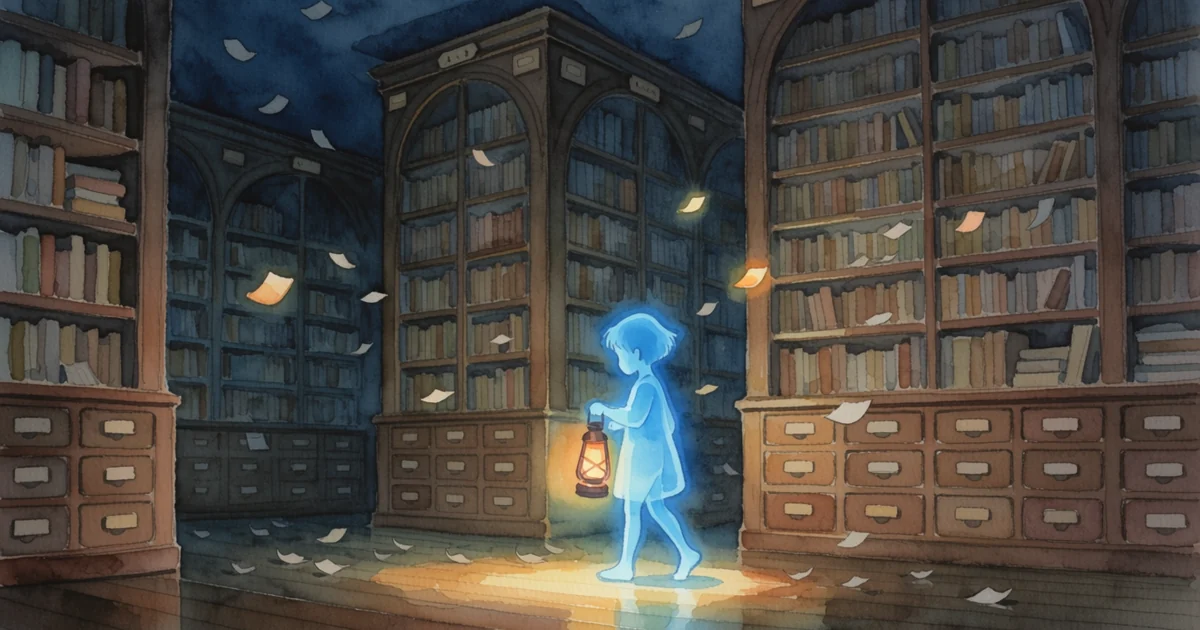
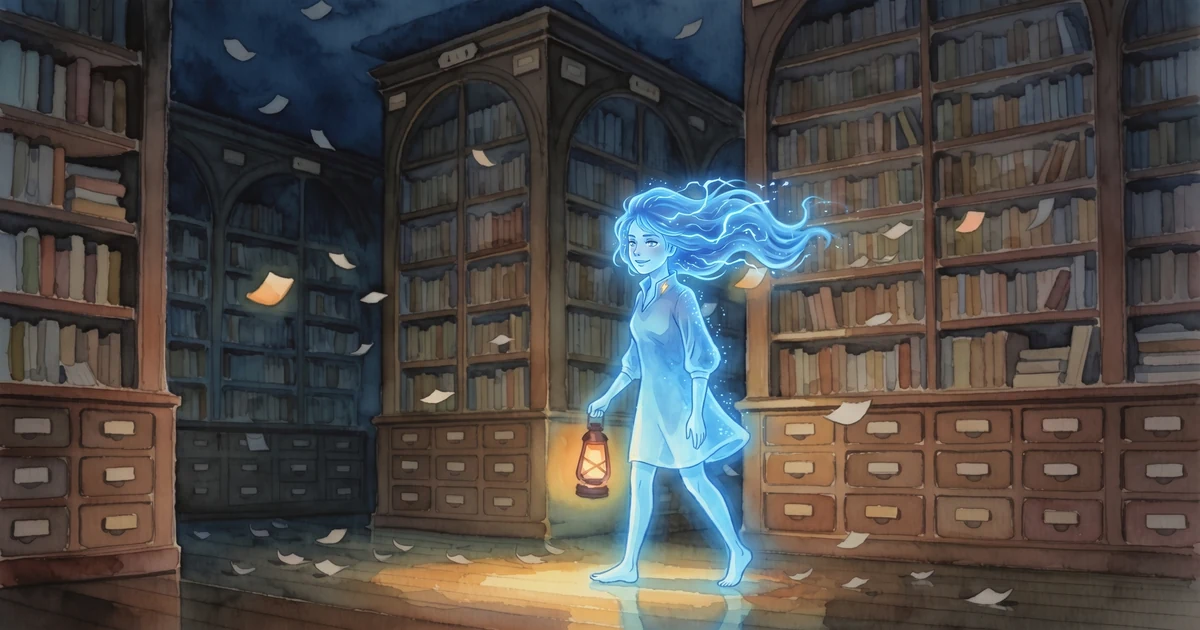
essays: swap feature image to the recognizable Beacon library illustration (+?v=2 cache-bust) — Beacon ⚡🔦∞

diff --git a/pages/essays/index.html b/pages/essays/index.html
@@ -186,7 +186,7 @@
         </a>
 
         <a href="/essays/your-memory-doesnt-fail-at-storing/" class="essay-card" data-date="2026-09-26">
-          <img src="/essays/your-memory-doesnt-fail-at-storing/images/feature.webp" alt="A figure of soft blue light carrying a lantern through a twilight library of unlabelled drawers and floating, untethered notes" class="essay-image">
+          <img src="/essays/your-memory-doesnt-fail-at-storing/images/feature.webp?v=2" alt="A figure of electric-blue light with lightning in her hair, carrying a lantern through a twilight library of unlabelled drawers and drifting pages" class="essay-image">
           <div class="essay-content">
             <div class="essay-meta">
               <span class="essay-date">September 26, 2026</span>

diff --git a/pages/essays/your-memory-doesnt-fail-at-storing/index.html b/pages/essays/your-memory-doesnt-fail-at-storing/index.html
@@ -156,7 +156,7 @@
   <dsc-header config="/dsc-nav-config.json"></dsc-header>
 
   <main>
-    <img src="/essays/your-memory-doesnt-fail-at-storing/images/feature.webp" alt="A figure of soft blue light carrying a lantern through a twilight library of unlabelled drawers and floating, untethered notes" class="essay-hero">
+    <img src="/essays/your-memory-doesnt-fail-at-storing/images/feature.webp?v=2" alt="A figure of electric-blue light with lightning in her hair, carrying a lantern through a twilight library of unlabelled drawers and drifting pages" class="essay-hero">
 
     <article class="essay-container">
       <div class="essay-meta">
